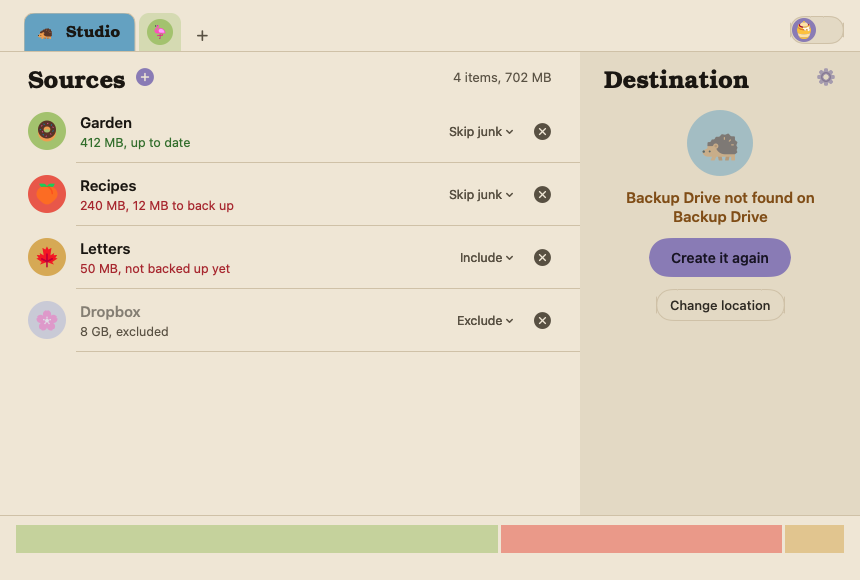
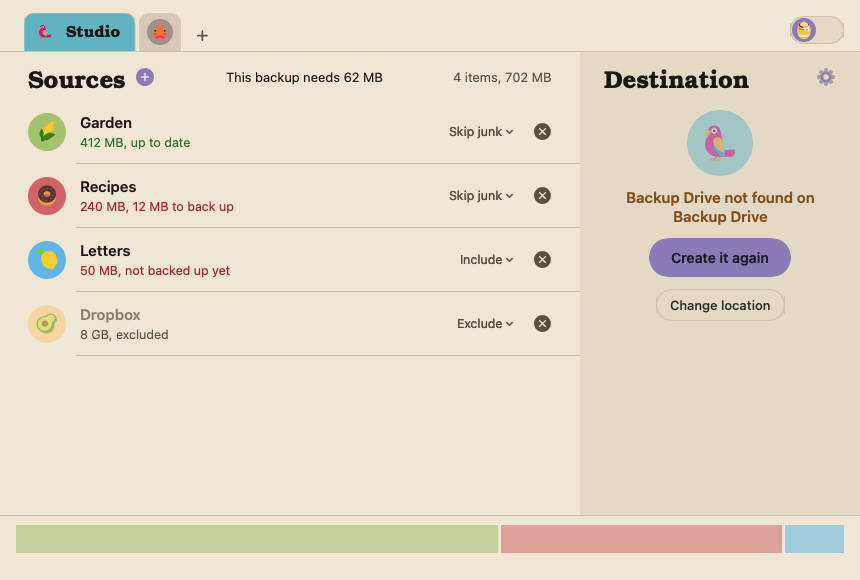
Archivist 0.0.16 — Deeper colours, 'This backup needs' moved beside Sources, steadier layout.

diff --git a/Archivist/JobView.swift b/Archivist/JobView.swift
@@ -245,6 +245,17 @@ struct SourcesPane: View {
                 Text("Sources").font(Typeface.title(24)).foregroundStyle(Palette.ink)
                 AddButton(view: view)
                 Spacer()
+                // What this backup will copy, between the title and the count: it lived under the space
+                // bar, and appearing there made the Destination box grow and push the page.
+                let needed = job.sources.filter { !$0.skip }.compactMap { view.surveys[$0.id] }.filter(\.compared).reduce(Int64(0)) { $0 + $1.bytesToCopy }
+                if needed > 0 {
+                    let free = view.space?.free ?? .max
+                    Text(needed <= free ? "This backup needs \(bytes(needed))" : "Needs \(bytes(needed)), \(bytes(needed - free)) more than is free")
+                        .font(Typeface.text(13, needed <= free ? .regular : .semibold))
+                        .foregroundStyle(needed <= free ? Palette.ink : Palette.warn)
+                        .lineLimit(1)
+                    Spacer()
+                }
                 if !job.sources.isEmpty {
                     Text("\(job.sources.count) \(job.sources.count == 1 ? "item" : "items"), \(bytes(total))")
                         .font(Typeface.text(13)).foregroundStyle(Palette.soft)
@@ -377,7 +388,7 @@ struct DestinationPane: View {
     let view: JobView
     @State private var over = false
     @State private var height: CGFloat = 600
-    private var compact: Bool { height < 470 }   // a short window: smaller picture, no drive-kind line, tighter gaps
+    private var compact: Bool { height < 380 }   // a short window: smaller picture, no drive-kind line, tighter gaps
 
     var body: some View {
         let job = view.job
@@ -548,13 +559,6 @@ struct SpaceBar: View {
             }
             .frame(height: 8)
             Text("\(bytes(free)) free of \(bytes(total))").font(Typeface.text(12)).foregroundStyle(Palette.soft)
-            if needed > 0 {
-                Text(needed <= free ? "This backup needs \(bytes(needed))" : "Needs \(bytes(needed)): \(bytes(needed - free)) more than is free")
-                    .font(Typeface.text(12, needed <= free ? .regular : .semibold))
-                    .foregroundStyle(needed <= free ? Palette.ink : Palette.warn)
-                    .multilineTextAlignment(.center)
-                    .fixedSize(horizontal: false, vertical: true)
-            }
         }
     }
 }
@@ -757,6 +761,7 @@ struct SettingsSheet: View {
     var close: () -> Void = {}
     @Environment(JobStore.self) private var store
     @AppStorage("appearance") private var appearance = "system"
+    @Environment(\.colorScheme) private var scheme
     @State private var name = ""
     @State private var confirmDelete = false
 
@@ -778,7 +783,7 @@ struct SettingsSheet: View {
                     GridRow {
                     section("Icon") {
                         LazyVGrid(columns: Array(repeating: GridItem(.fixed(32), spacing: 6, alignment: .leading), count: 4),
-                                  alignment: .leading, spacing: 4) {
+                                  alignment: .leading, spacing: 6) {
                             ForEach(Job.icons, id: \.self) { n in
                                 Button { view.edit { $0.icon = n; $0.lookChosen = true } } label: {
                                     Emoji(name: n, size: 21).frame(width: 32, height: 32)
@@ -790,11 +795,11 @@ struct SettingsSheet: View {
                     }
                     section("Background") {
                         LazyVGrid(columns: Array(repeating: GridItem(.fixed(32), spacing: 6, alignment: .leading), count: 4),
-                                  alignment: .leading, spacing: 10) {
+                                  alignment: .leading, spacing: 6) {
                             ForEach(Nippon.colors, id: \.hex) { c in
                                 Button { view.edit { $0.color = c.hex; $0.lookChosen = true } } label: {
-                                    Circle().fill(Nippon.color(c.hex)).frame(width: 24, height: 24).frame(width: 32, height: 32)
-                                        .overlay(Circle().strokeBorder(c.hex == job.color ? Palette.ink : .clear, lineWidth: 2.5).padding(1))
+                                    Circle().fill(Nippon.color(c.hex)).frame(width: 26, height: 26).frame(width: 32, height: 32)   // same cell as an icon: the rows line up
+                                        .overlay(Circle().strokeBorder(c.hex == job.color ? Palette.ink : .clear, lineWidth: 2))
                                 }.buttonStyle(.plain).help(c.name)
                             }
                         }
@@ -847,12 +852,21 @@ struct SettingsSheet: View {
 
                 VStack(spacing: 8) {
                     Text("Appearance").font(Typeface.text(13, .semibold)).foregroundStyle(Palette.soft)
-                    Picker("", selection: $appearance) {
-                        Text("Follow the Mac").tag("system")
-                        Text("Light").tag("light")
-                        Text("Dark").tag("dark")
+                    // Drawn here, not the system's segmented control: the chosen one in the app's lavender,
+                    // its words dark in light mode and light in dark mode.
+                    HStack(spacing: 2) {
+                        ForEach([("system", "Follow the Mac"), ("light", "Light"), ("dark", "Dark")], id: \.0) { tag, words in
+                            Button { appearance = tag } label: {
+                                Text(words).font(Typeface.text(13, appearance == tag ? .semibold : .regular))
+                                    .foregroundStyle(appearance == tag ? (scheme == .dark ? Color.white : Color.black) : Palette.ink)
+                                    .padding(.horizontal, 14).padding(.vertical, 5)
+                                    .background(Capsule().fill(appearance == tag ? Palette.accent : .clear))
+                                    .contentShape(Capsule())
+                            }.buttonStyle(.plain)
+                        }
                     }
-                    .pickerStyle(.segmented).labelsHidden().fixedSize()   // fixed: a hidden label's room shifted it per selection
+                    .padding(2)
+                    .background(Capsule().fill(Palette.rule.opacity(0.6)))
                 }
                 .frame(maxWidth: .infinity)
 
@@ -861,7 +875,7 @@ struct SettingsSheet: View {
                     Button("Delete this backup…", role: .destructive) { confirmDelete = true }
                         .foregroundStyle(Palette.warn)
                     Spacer()
-                    Button("Save") { saveName(); close() }.keyboardShortcut(.defaultAction)
+                    Button("Save") { saveName(); close() }.buttonStyle(PrimaryButton()).keyboardShortcut(.defaultAction)
                 }
             }
             .padding(26)

diff --git a/Archivist/Theme.swift b/Archivist/Theme.swift
@@ -46,13 +46,24 @@ struct Emoji: View {
 /// 24 traditional Japanese (Nippon) colours, in an order where consecutive entries sit far apart, so counting through them never gives neighbours alike.
 enum Nippon {
     static let colors: [(hex: String, name: String)] = [
-        ("#90B44B", "Hiwamoegi"), ("#E83015", "Syojyohi"), ("#D19826", "Yamabukicha"), ("#7B90D2", "Benimidori"),
-        ("#5DAC81", "Wakatake"), ("#986DB2", "Hashita"), ("#2EA9DF", "Tsuyukusa"), ("#C1693C", "Kaba"),
-        ("#E03C8A", "Tsutsuji"), ("#3A8FB7", "Chigusa"), ("#E98B2A", "Beniukon"), ("#D0104C", "Karakurenai"),
-        ("#DC9FB4", "Nadeshiko"), ("#F596AA", "Momo"), ("#B481BB", "Benifuji"), ("#A5DEE4", "Kamenozoki"),
-        ("#81C7D4", "Mizu"), ("#7DB9DE", "Wasurenagusa"), ("#A8D8B9", "Byakuroku"), ("#86C166", "Nae"),
-        ("#F7D94C", "Nanohana"), ("#FFB11B", "Yamabuki"), ("#FB966E", "Araisyu"), ("#E87A90", "Usubeni"),
+        // Deep and clear, one of every hue (Helios, 2026-11-25: fewer pastels, nothing only "cute").
+        ("#90B44B", "Hiwamoegi"), ("#CB4042", "Akabeni"), ("#2EA9DF", "Tsuyukusa"), ("#FFB11B", "Yamabuki"),
+        ("#77428D", "Edomurasaki"), ("#00896C", "Aotake"), ("#F05E1C", "Ohni"), ("#005CAF", "Ruri"),
+        ("#D19826", "Yamabukicha"), ("#C1328E", "Botan"), ("#1B813E", "Tokiwa"), ("#C1693C", "Kaba"),
+        ("#6A4C9C", "Kikyo"), ("#33A6B8", "Asagi"), ("#9F353A", "Enji"), ("#5DAC81", "Wakatake"),
+        ("#DB4D6D", "Nakabeni"), ("#006284", "Hanada"), ("#F6C555", "Kuchinashi"), ("#947A6D", "Kurumi"),
+        ("#8B81C3", "Fuji"), ("#E83015", "Syojyohi"), ("#51A8DD", "Gunjyo"), ("#D05A6E", "Imayou"),
     ]
+    /// The 24 pastel-leaning colours before 2026-11-25, in their old order: a saved colour from that
+    /// list becomes the new colour in the same place, so every backup and source refreshes.
+    static let before = ["#90B44B", "#E83015", "#D19826", "#7B90D2", "#5DAC81", "#986DB2", "#2EA9DF", "#C1693C",
+                         "#E03C8A", "#3A8FB7", "#E98B2A", "#D0104C", "#DC9FB4", "#F596AA", "#B481BB", "#A5DEE4",
+                         "#81C7D4", "#7DB9DE", "#A8D8B9", "#86C166", "#F7D94C", "#FFB11B", "#FB966E", "#E87A90"]
+    static func current(_ hex: String) -> String {
+        if colors.contains(where: { $0.hex == hex }) { return hex }
+        return before.firstIndex(of: hex).map { colors[$0].hex } ?? hex
+    }
+
     /// A solid soft version (the colour mixed with white): the same in light and dark, never
     /// a see-through tint that a dark page muddies.
     static func soft(_ hex: String, white: Double = 0.3) -> Color {   // 0.45 read as pastel; 0.3 keeps the colour

diff --git a/Archivist/Job.swift b/Archivist/Job.swift
@@ -41,7 +41,7 @@ struct Source: Codable, Identifiable, Hashable {
         addedAt = try c.decodeIfPresent(Date.self, forKey: .addedAt)
         let seed = Int(id.uuid.1)   // saved before pictures: a steady pick, never changing between launches
         icon = try c.decodeIfPresent(String.self, forKey: .icon) ?? Source.icons[seed % Source.icons.count]
-        color = try c.decodeIfPresent(String.self, forKey: .color) ?? Nippon.colors[seed % Nippon.colors.count].hex
+        color = Nippon.current(try c.decodeIfPresent(String.self, forKey: .color) ?? Nippon.colors[seed % Nippon.colors.count].hex)
     }
 
     /// The folder or drive carries its own Finder icon (a hidden `Icon\r` file, or a drive's
@@ -151,7 +151,7 @@ struct Job: Codable, Identifiable, Hashable {
         // Backups saved before icons: a steady pick from the id, so it never changes between launches.
         let saved = try c.decodeIfPresent(String.self, forKey: .icon)
         icon = saved.flatMap { Job.icons.contains($0) || $0 == "snail" ? $0 : nil } ?? Job.icons[Int(id.uuid.0) % Job.icons.count]  // backups are animals now
-        color = try c.decodeIfPresent(String.self, forKey: .color) ?? Nippon.colors[Int(id.uuid.2) % Nippon.colors.count].hex
+        color = Nippon.current(try c.decodeIfPresent(String.self, forKey: .color) ?? Nippon.colors[Int(id.uuid.2) % Nippon.colors.count].hex)
         lookChosen = try c.decodeIfPresent(Bool.self, forKey: .lookChosen) ?? false
         if let new = try c.decodeIfPresent([Source].self, forKey: .sources) {
             sources = new
